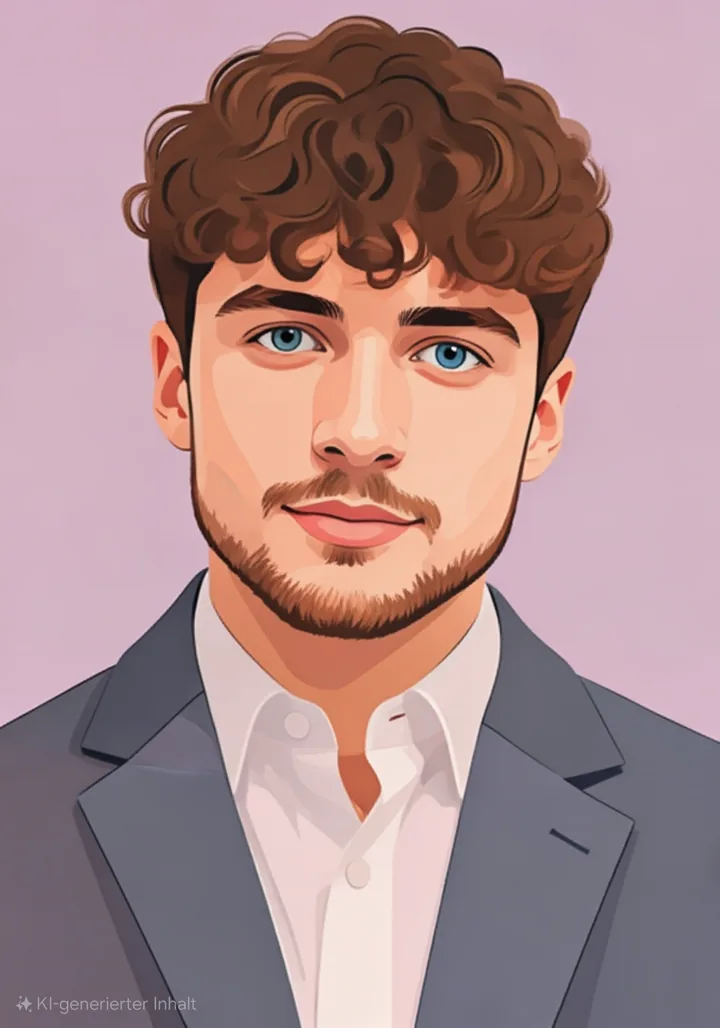
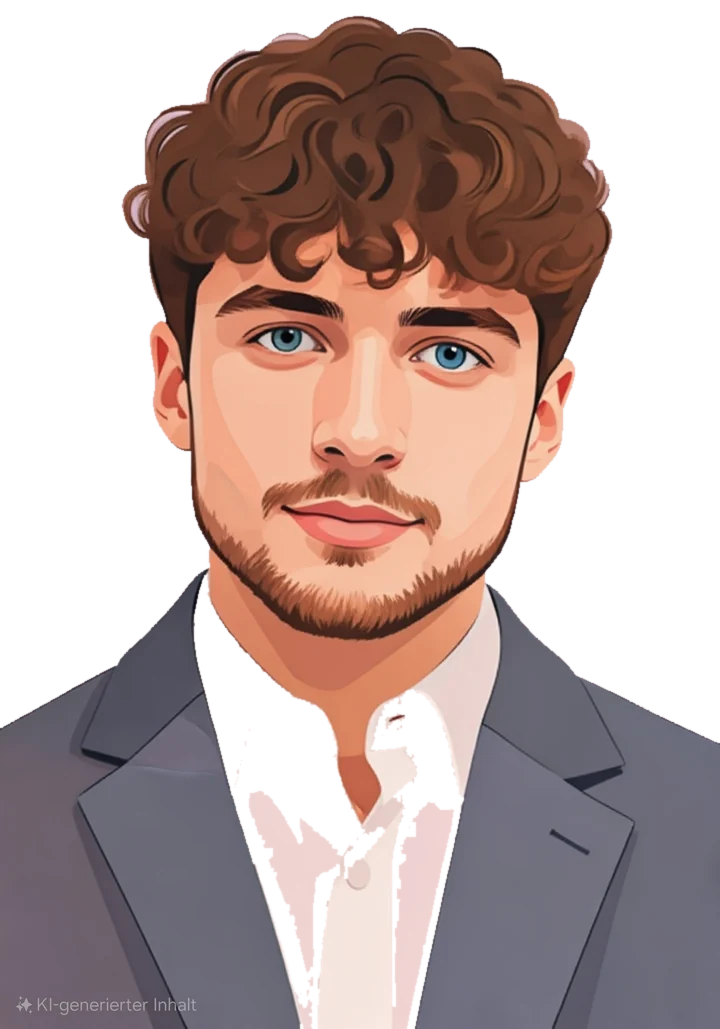
feat: make comic portrait background transparent

diff --git a/evals/immersive.spec.ts b/evals/immersive.spec.ts
@@ -413,6 +413,10 @@ for (const locale of locales) {
       const portrait = about.locator('img[src="/lasse-comic-portrait.webp"]');
       await expect(portrait).toBeVisible();
       await expect(portrait).toHaveAttribute("alt", portraitAlts[locale]);
+      const frameBackground = await portrait.locator("xpath=..").evaluate(
+        (frame) => getComputedStyle(frame).backgroundColor,
+      );
+      expect(frameBackground).toBe("rgba(0, 0, 0, 0)");
     });
 
     test("case-study page: Bricolage display H1 as real text (D-15)", async ({

diff --git a/src/app/globals.css b/src/app/globals.css
@@ -193,7 +193,7 @@ body {
   aspect-ratio: 5 / 7;
   overflow: hidden;
   border: 1px solid var(--border);
-  background: var(--border); /* placeholder before/if the image decodes */
+  background: transparent;
 }
 
 @media (min-width: 768px) {
